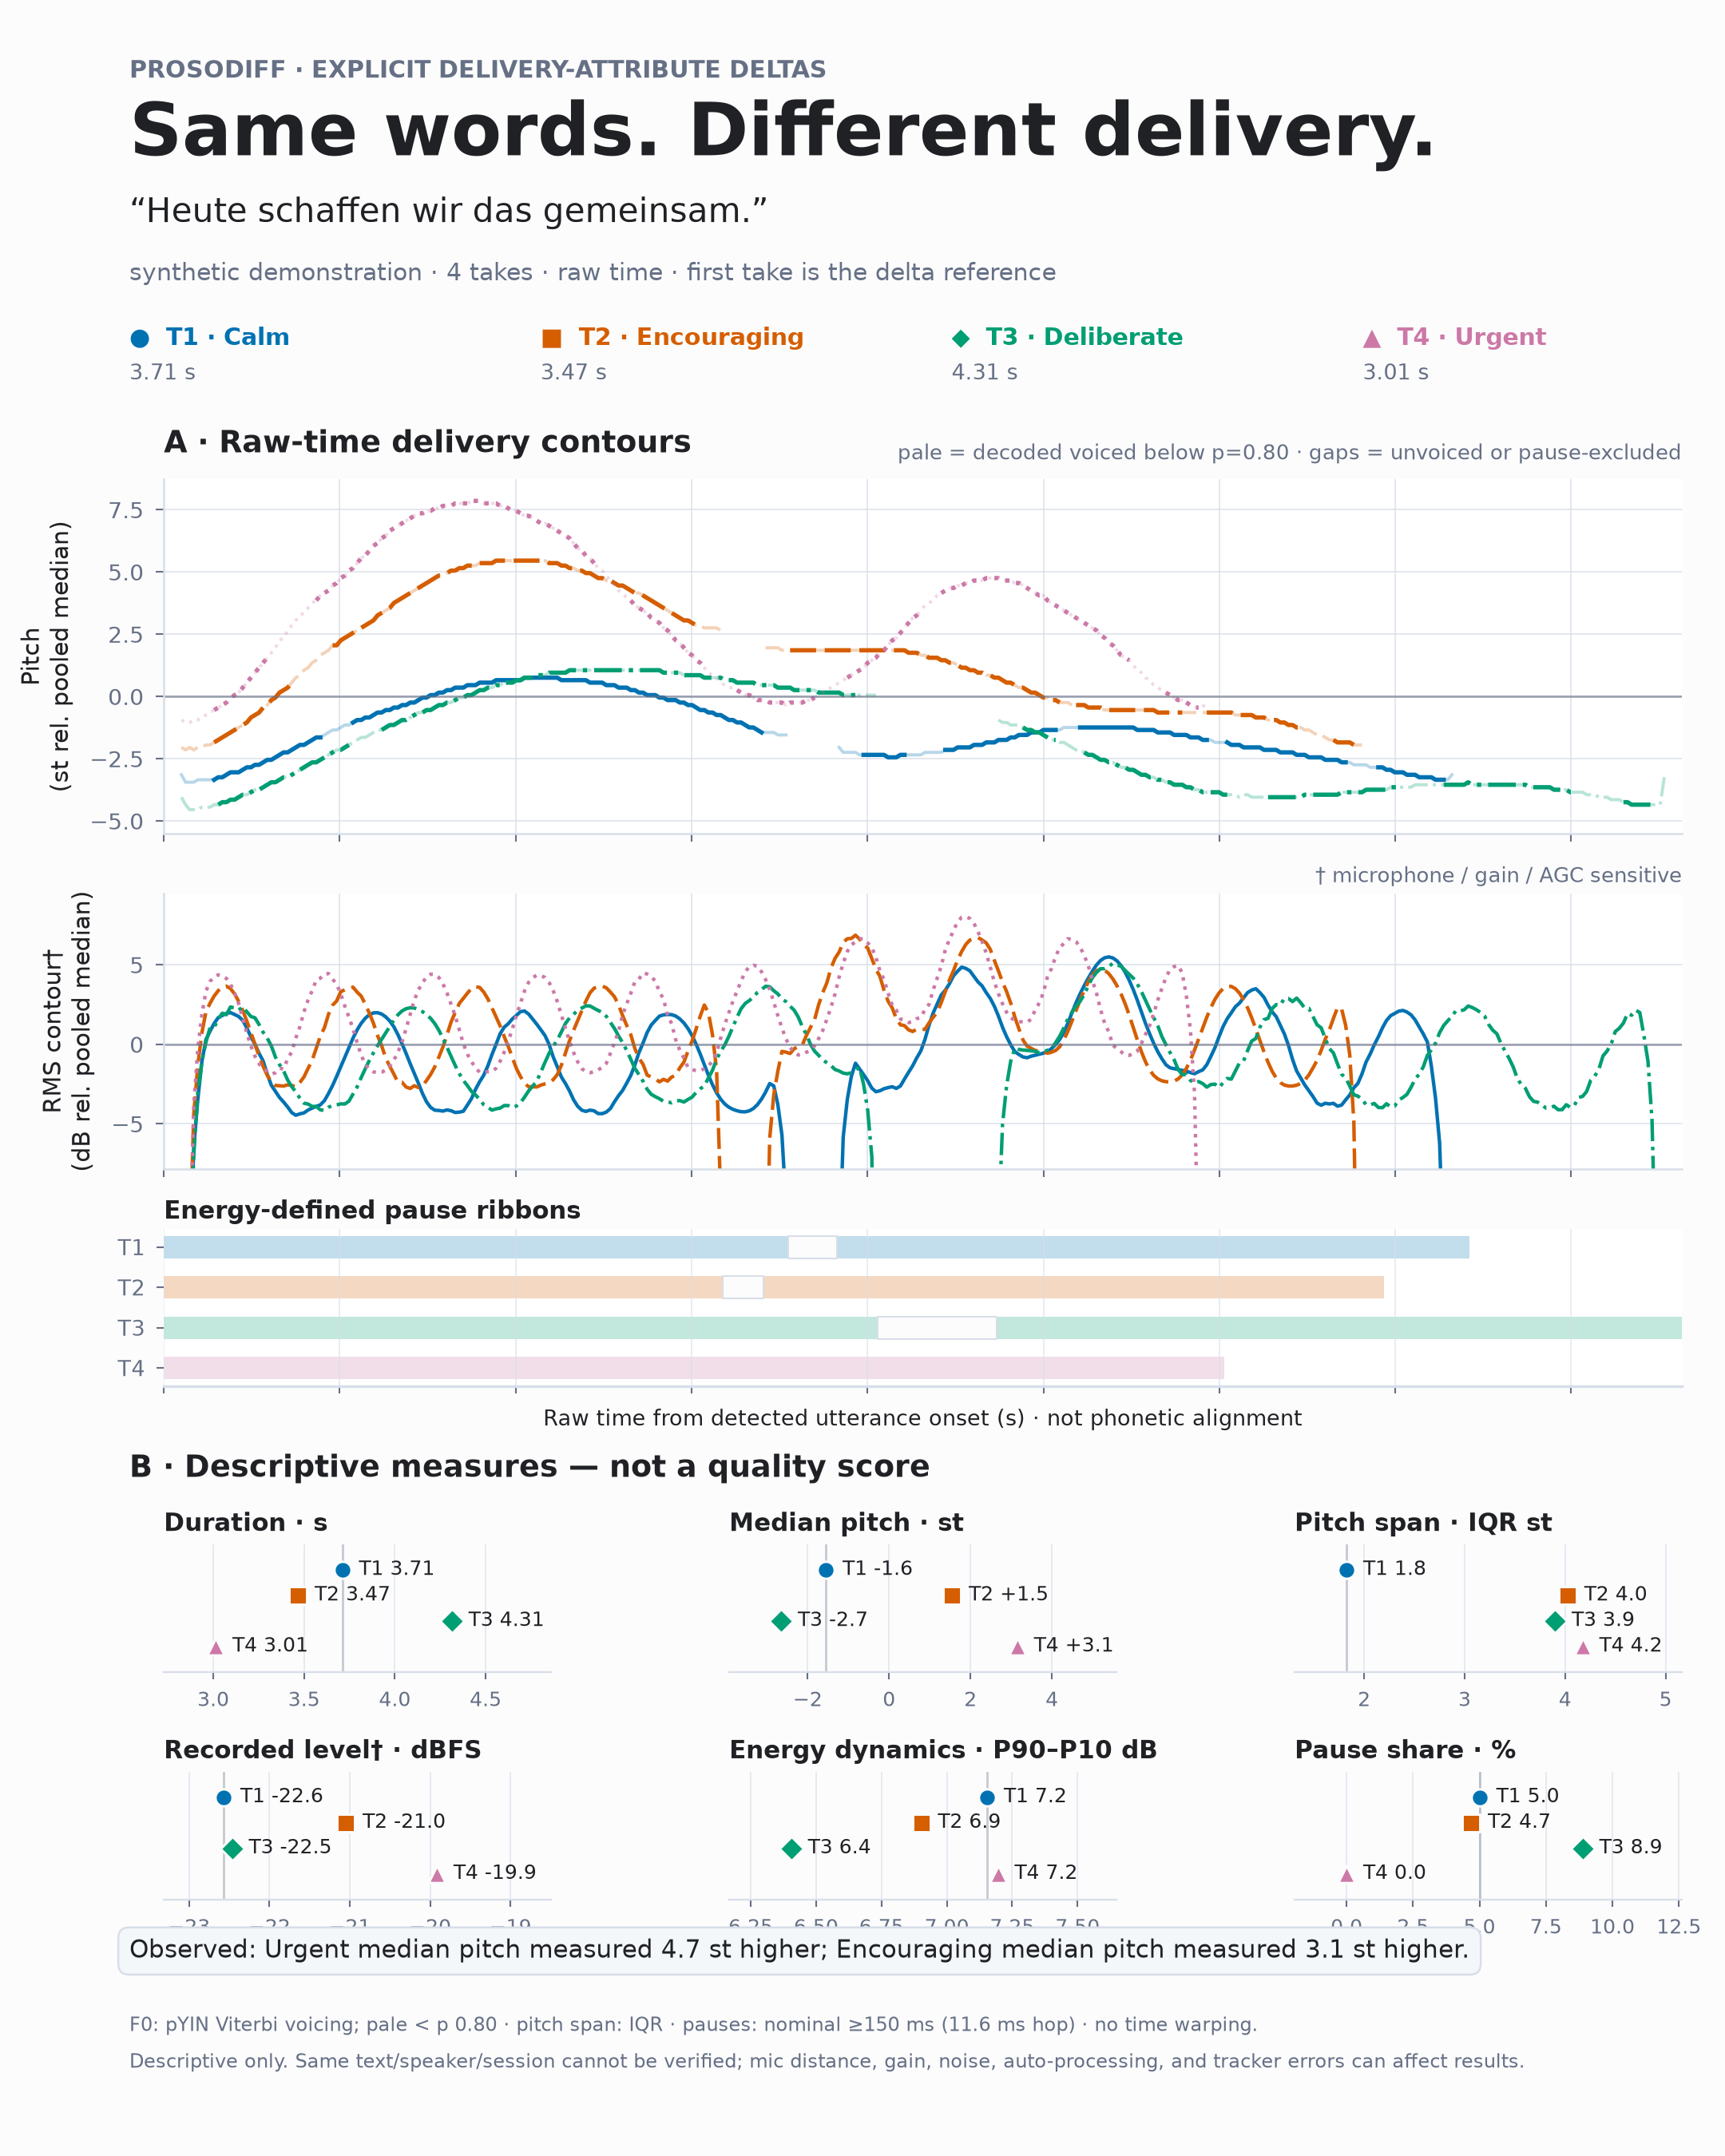
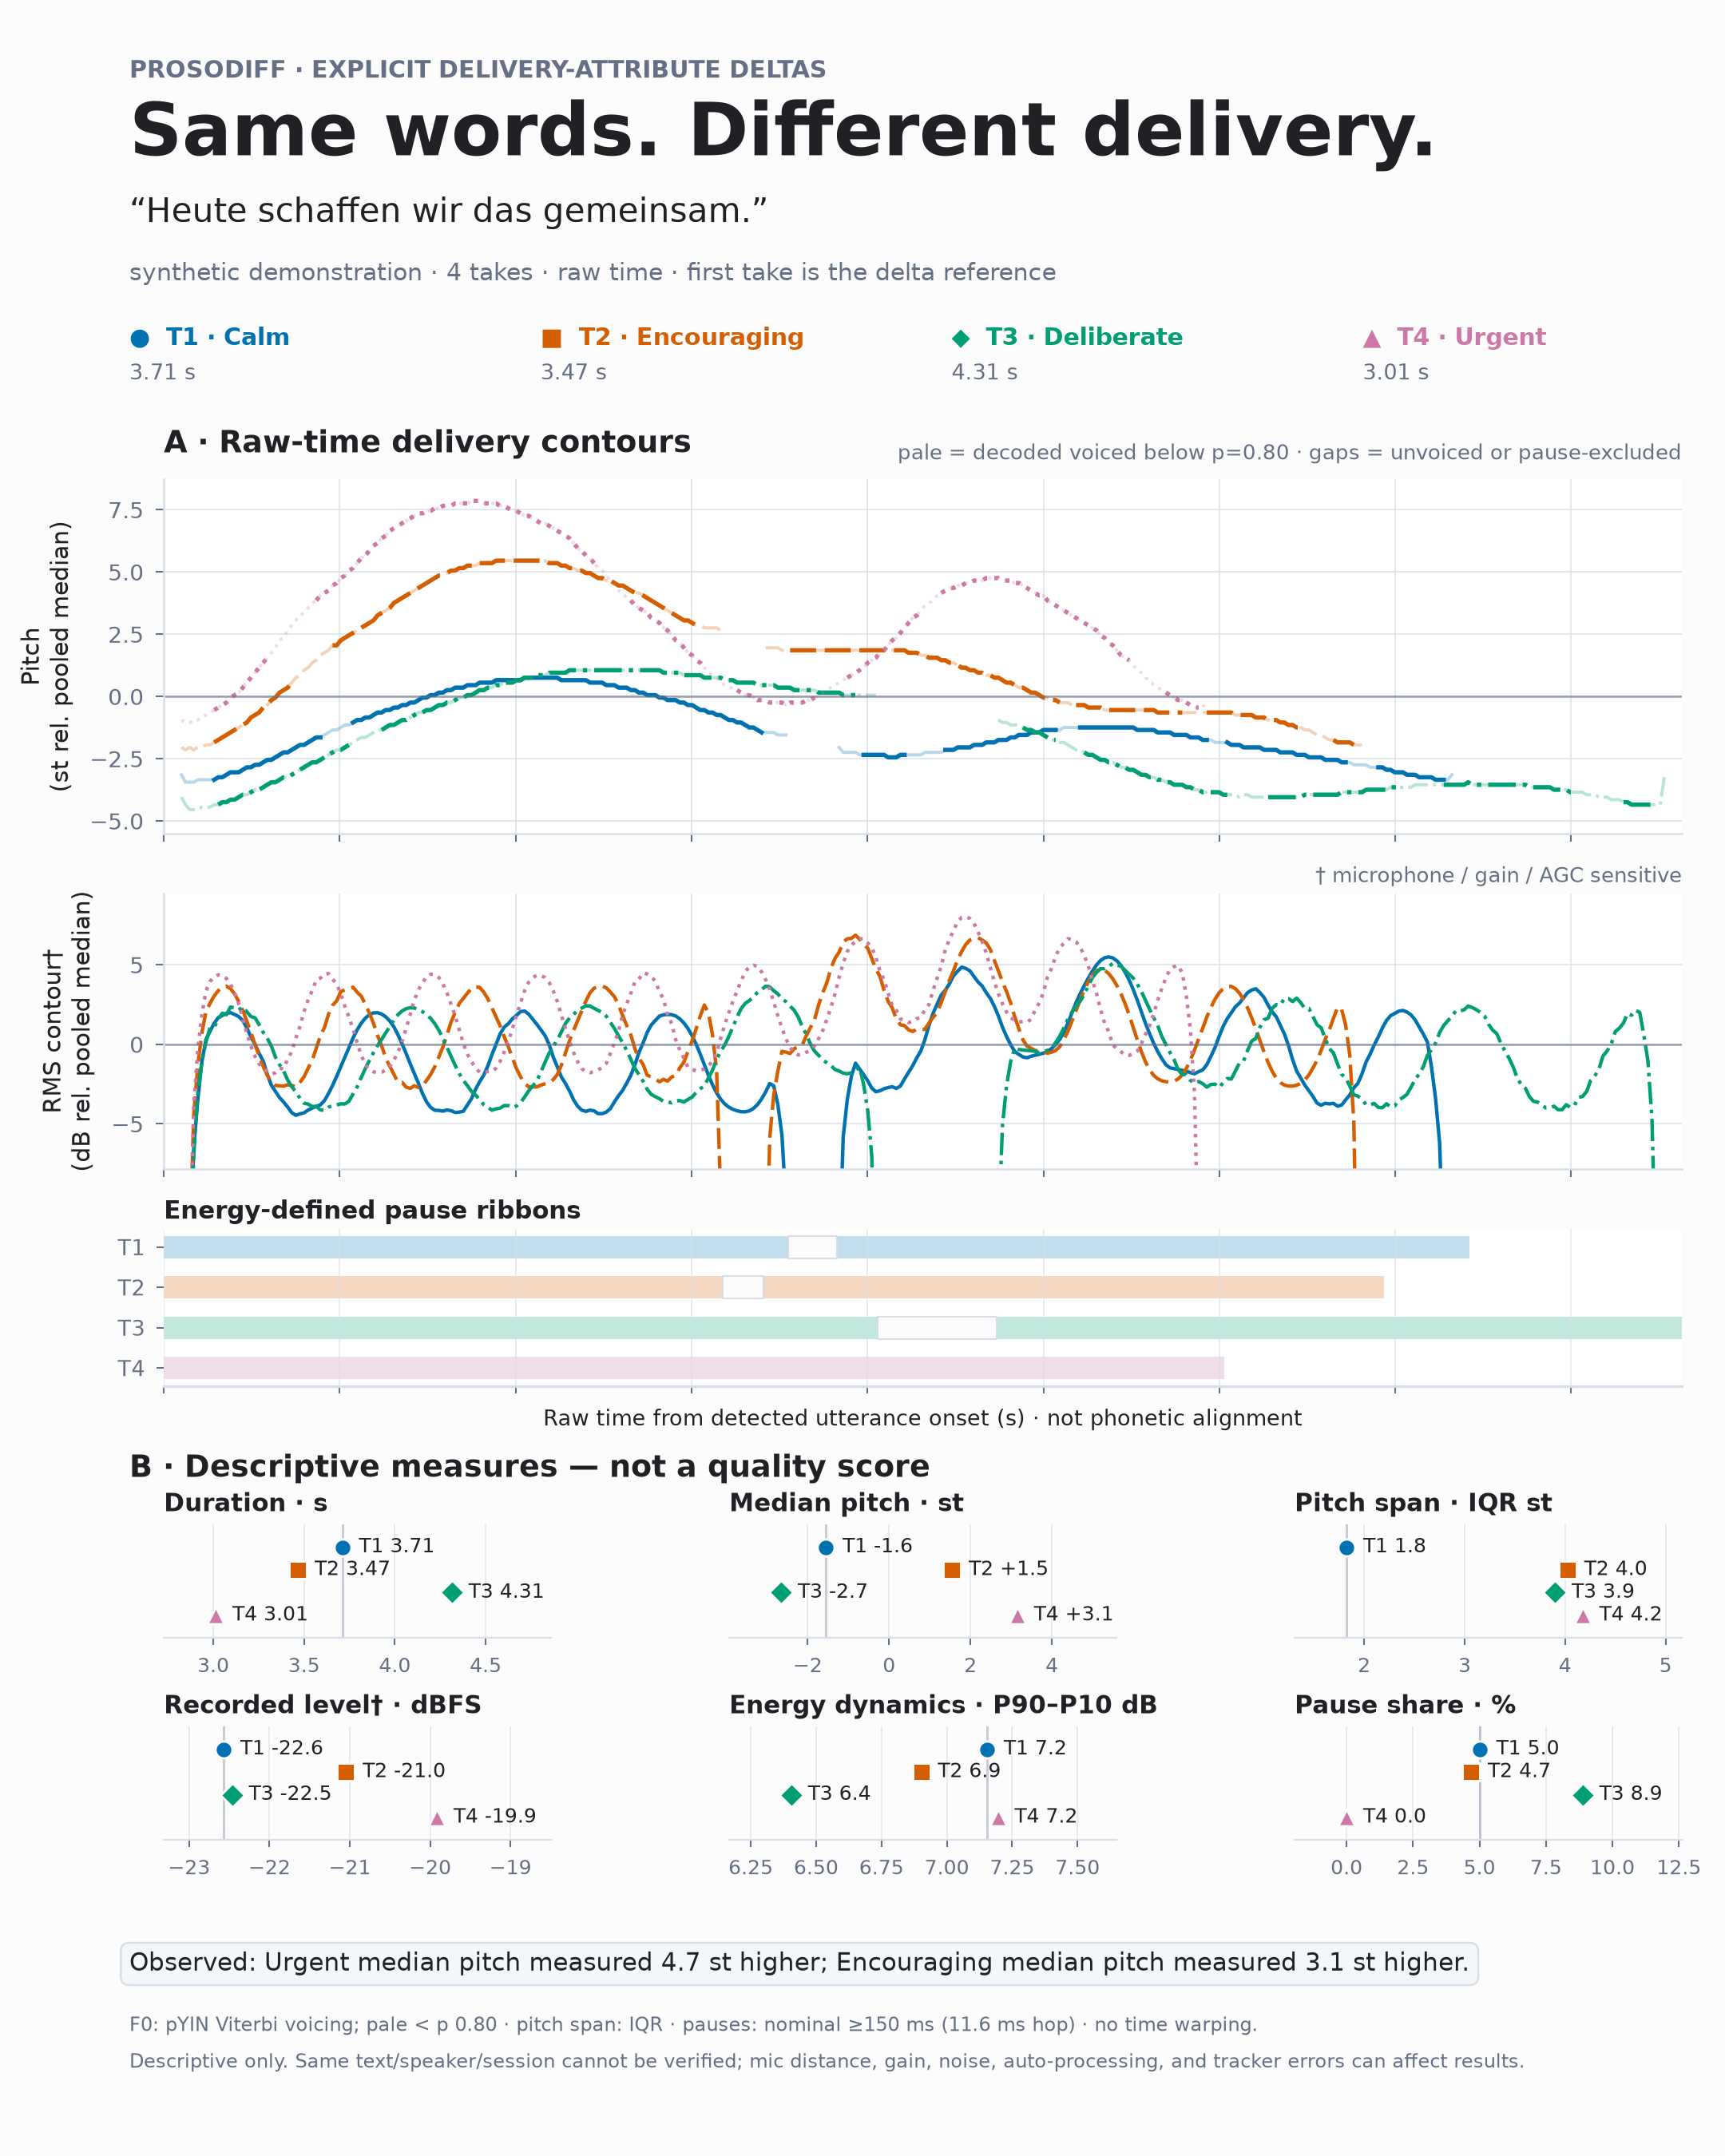
Prepare v0.2.0 public release

Changed region(s): [[0.062, 0.6844, 0.9616, 0.9333], [0.7444, 0.6844, 0.8995, 0.7467], [0.8995, 0.7156, 0.9616, 0.7778]]

diff --git a/src/prosodiff/render.py b/src/prosodiff/render.py
@@ -470,7 +470,7 @@ def _figure(comparison: Comparison) -> Figure:
         fontweight="bold",
         color=_TEXT,
     )
-    metric_grid = grid[75:93, :].subgridspec(2, 3, hspace=0.78, wspace=0.46)
+    metric_grid = grid[74:90, :].subgridspec(2, 3, hspace=0.78, wspace=0.46)
     for metric_index, (title, values, formatter) in enumerate(
         _metric_specs(comparison)
     ):
@@ -480,12 +480,12 @@ def _figure(comparison: Comparison) -> Figure:
     summary = _observed_summary(comparison)
     figure.text(
         0.075,
-        0.092,
+        0.086,
         summary,
         fontsize=7.4,
         color=_TEXT,
         bbox={
-            "boxstyle": "round,pad=0.45",
+            "boxstyle": "round,pad=0.35",
             "facecolor": _PANEL,
             "edgecolor": _GRID,
             "linewidth": 0.6,

diff --git a/src/prosodiff/models.py b/src/prosodiff/models.py
@@ -378,6 +378,7 @@ class Comparison:
                 "pause": {
                     "minimum_pause_ms": self.settings.minimum_pause_ms,
                     "maximum_noise_burst_ms": (self.settings.maximum_noise_burst_ms),
+                    "edge_pad_ms": self.settings.edge_pad_ms,
                     "sensitivity_db": self.settings.pause_sensitivity_db,
                 },
             },

diff --git a/tests/test_analysis.py b/tests/test_analysis.py
@@ -101,6 +101,7 @@ def test_json_schema_is_standard_and_auditable(
     assert "NaN" not in encoded
     assert payload["schema"] == "prosodiff.explicit-delivery-attribute-delta"
     assert payload["schema_version"] == "0.2.0"
+    assert payload["analysis"]["pause"]["edge_pad_ms"] == 50.0
     assert payload["analysis"]["pitch"]["voiced_probability_role"] == "diagnostic_only"
     assert len(payload["takes"]) == 4
     assert len(payload["pairs"]) == 6

diff --git a/README.md b/README.md
@@ -1,12 +1,26 @@
 # Prosodiff
 
+[![tests](https://github.com/asera-1/prosodiff/actions/workflows/tests.yml/badge.svg)](https://github.com/asera-1/prosodiff/actions/workflows/tests.yml)
+
 **Same words. Different delivery—made visible.**
 
 Prosodiff is a small, training-free CLI for comparing two to four recordings of the same speaker saying the same text in different ways. It exports a publication-grade 4:5 figure and a versioned JSON record of explicit delivery-attribute deltas—without predicting emotions or collapsing the comparison into a single score.
 
-![Prosodiff synthetic demonstration](docs/prosodiff-card.png)
+![Prosodiff synthetic demonstration](https://raw.githubusercontent.com/asera-1/prosodiff/main/docs/prosodiff-card.png)
 
 Built as a side tool for retrieval-augmented expressive TTS research (ProsodyRAG) at Universität Osnabrück.
+
+Try the complete no-audio demonstration without cloning or installing:
+
+```bash
+uvx prosodiff demo --output prosodiff-card.png
+```
+
+Or install the command permanently:
+
+```bash
+pip install prosodiff
+```
 
 ## What it reports
 
@@ -29,7 +43,7 @@ uv run prosodiff ui
 
 Prosodiff opens a browser page where you can record two to four takes directly from the microphone, replay or redo each take, edit labels, and generate the same 4:5 card and JSON as the CLI. Each take gets a nonblocking level/clipping check before analysis, and the page recommends a redo when the recorded level is below −35 dBFS, clipping is detected, the device changes, or a take differs from the reference by more than 6 dB. Allow microphone access when prompted. Selecting existing WAV files remains available as a secondary option.
 
-![Prosodiff local browser interface](docs/prosodiff-ui.png)
+![Prosodiff local browser interface](https://raw.githubusercontent.com/asera-1/prosodiff/main/docs/prosodiff-ui.png)
 
 The server binds only to `127.0.0.1`; it has no telemetry, CDN assets, or external API calls. Live captures are encoded as mono PCM WAVs in the browser. Recordings use random temporary filenames on the server and are deleted immediately after the analysis succeeds or fails. Generated PNG/JSON results are deleted when the server stops. Do not modify the code to expose this development interface on `0.0.0.0` or deploy it publicly.
 